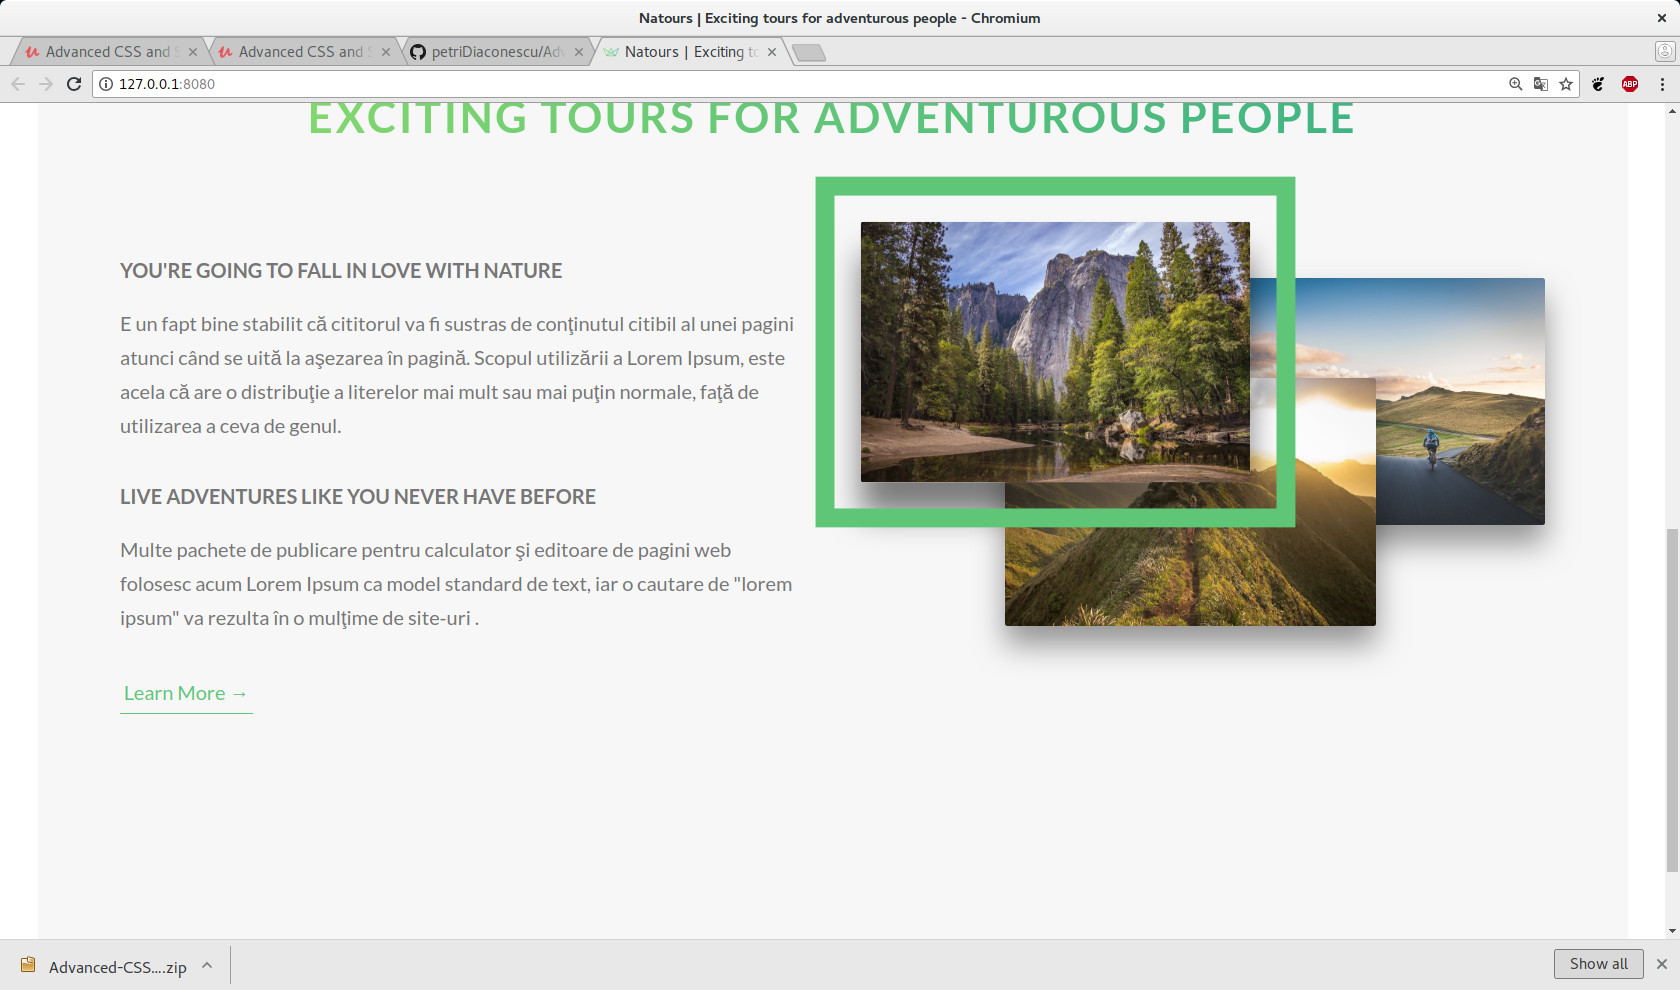
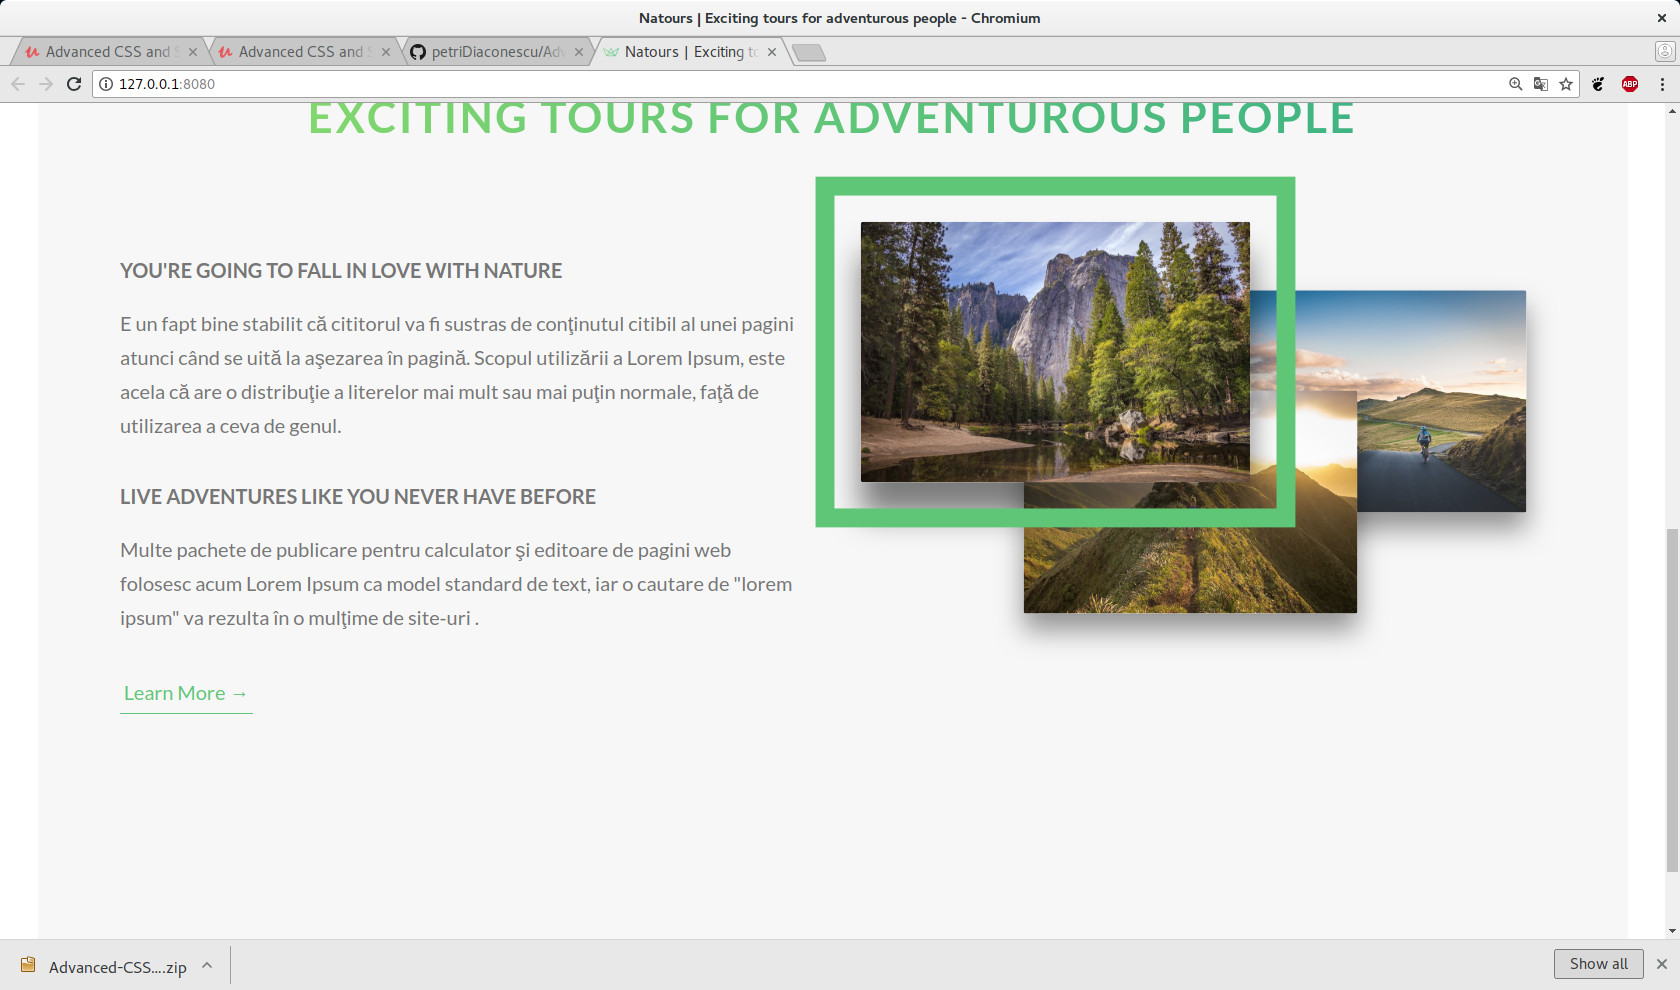
Shrink the images that are not hovered when we hover over the composition div

Changed region(s): [[0.5881, 0.2727, 0.9286, 0.6667]]

diff --git a/sass/components/_composition.scss b/sass/components/_composition.scss
@@ -32,4 +32,8 @@
       z-index: 20;
     }
   }
+  
+  &:hover &__photo:not(:hover){
+    transform: scale(.9);
+  }
 }
